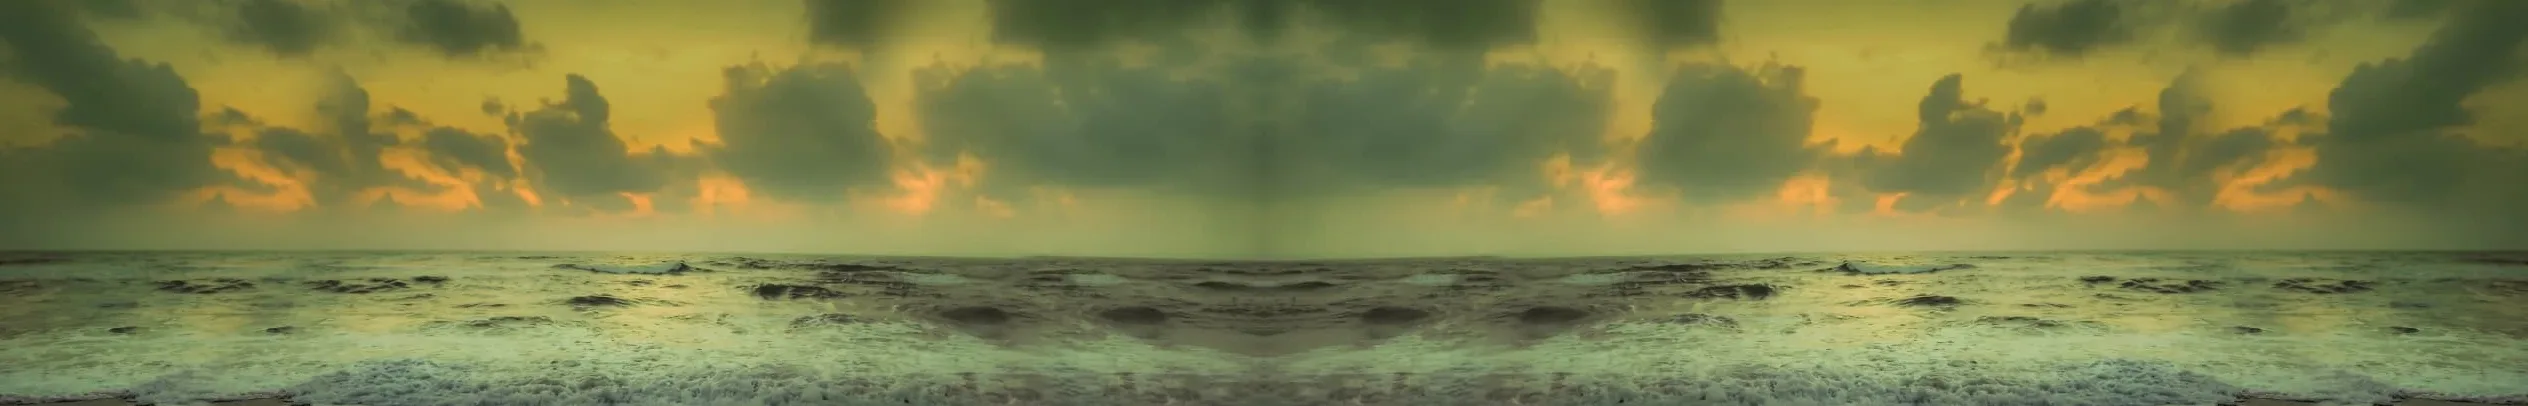
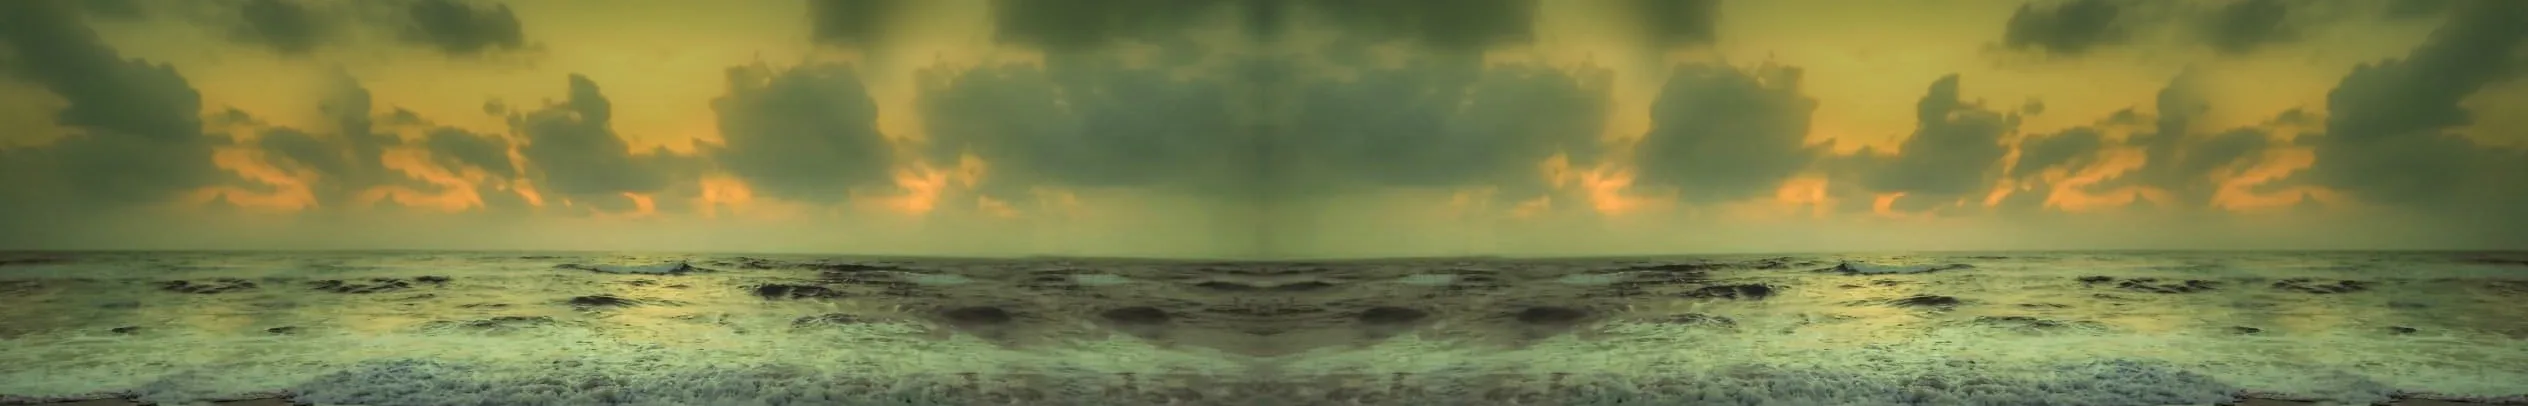
fix: smooth lightning, nothing in the scene moves between frames
The lit frames are the main picture relit with the broad light of the other three, and the layers crossfade with eased ramps instead of hard cuts.

diff --git a/app/globals.css b/app/globals.css
@@ -283,15 +283,15 @@
     @keyframes glyph-bob { 0%, 100% { translate: 0 1px; rotate: -3deg; } 50% { translate: 0 -2px; rotate: 3deg; } }
     .glyph-lamp { animation: glyph-lamp 1.8s steps(1, end) infinite; }
     @keyframes glyph-lamp { 0%, 100% { opacity: 0.25; } 70% { opacity: 1; } 85% { opacity: 0.25; } }
-    /* lightning: three frames of the shot flicker over the main one. A strike is a dark dip (frame 1), then the
-       sea lit twice (frames 2 and 3) with a short tail, about 0.6s in all; a weaker second strike comes half way
-       through the 14s cycle. */
-    .hero-flash-1 { animation: hero-flash-1 14s linear infinite 1.5s; }
-    .hero-flash-2 { animation: hero-flash-2 14s linear infinite 1.5s; }
-    .hero-flash-3 { animation: hero-flash-3 14s linear infinite 1.5s; }
-    @keyframes hero-flash-1 { 0%, 100% { opacity: 0; } 0.2% { opacity: 0; } 0.3% { opacity: 1; } 0.7% { opacity: 1; } 0.75% { opacity: 0; } 50.1% { opacity: 0; } 50.2% { opacity: 1; } 50.55% { opacity: 1; } 50.6% { opacity: 0; } }
-    @keyframes hero-flash-2 { 0%, 100% { opacity: 0; } 0.7% { opacity: 0; } 0.75% { opacity: 1; } 1.25% { opacity: 1; } 1.3% { opacity: 0; } 50.6% { opacity: 0; } 50.65% { opacity: 0.8; } 51.05% { opacity: 0.8; } 51.1% { opacity: 0; } }
-    @keyframes hero-flash-3 { 0%, 100% { opacity: 0; } 1.6% { opacity: 0; } 1.65% { opacity: 1; } 2.4% { opacity: 1; } 4.2% { opacity: 0; } 51.35% { opacity: 0; } 51.4% { opacity: 0.7; } 52% { opacity: 0.7; } 52.9% { opacity: 0; } }
+    /* lightning: the three lit frames are the main picture relit, so nothing in the scene moves between them; the
+       layers crossfade with short eased ramps (no hard cuts). A strike is a dark dip, then two lit pulses with a
+       tail, about 0.8s in all; a weaker second strike comes half way through the 14s cycle. */
+    .hero-flash-1 { animation: hero-flash-1 14s ease-in-out infinite 1.5s; }
+    .hero-flash-2 { animation: hero-flash-2 14s ease-in-out infinite 1.5s; }
+    .hero-flash-3 { animation: hero-flash-3 14s ease-in-out infinite 1.5s; }
+    @keyframes hero-flash-1 { 0%, 100% { opacity: 0; } 0.3% { opacity: 0; } 0.8% { opacity: 1; } 1.3% { opacity: 0; } 50% { opacity: 0; } 50.5% { opacity: 0.8; } 51% { opacity: 0; } }
+    @keyframes hero-flash-2 { 0%, 100% { opacity: 0; } 1.2% { opacity: 0; } 1.7% { opacity: 1; } 2.3% { opacity: 0.3; } 2.9% { opacity: 0; } 50.9% { opacity: 0; } 51.4% { opacity: 0.7; } 52.2% { opacity: 0; } }
+    @keyframes hero-flash-3 { 0%, 100% { opacity: 0; } 2.5% { opacity: 0; } 3% { opacity: 1; } 3.8% { opacity: 1; } 5.7% { opacity: 0; } 52% { opacity: 0; } 52.5% { opacity: 0.6; } 53.2% { opacity: 0.6; } 54.5% { opacity: 0; } }
     .hero-node { animation: enter var(--t-reveal) var(--ease) both; animation-delay: 700ms; }
 
     /* blink: one soft blink every 3.5 seconds; the lids ease shut over 200ms, rest about 60ms, then ease open over 300ms */

diff --git a/README.md b/README.md
@@ -16,7 +16,7 @@ npm run typecheck
 
 Everything editable lives in `data/content.ts`: name, tagline, region, email, social links, the resume path (`site.resume`, a PDF in `public/`), bio lines, the Design / Cloud columns, projects (with their detail-page copy and architecture components), stack groups, the experience log, certifications and footer text. The content was filled from the GitHub profile README, the CloudExpire, Acedra and Self-Healing repositories, and the resume.
 
-- Hero banner: `site.banner` is the photo band at the top (`public/hero-sea-strip.webp`, the frame followed by its mirror so it repeats sideways with no join); it pans steadily to the right as a repeating background. `site.bannerFlash` holds three more strips of the same shot (`hero-sea-strip-f1/2/3.webp`: a dark dip, then two with the sea lit), registered to the pixel and stacked over it; the `hero-flash-*` keyframes flicker them to make the lightning. The tagline over it is `site.heroScript` (calligraphy, Pinyon Script) above `site.heroCaps` (rust caps). `HeroGlyphs` draws small inked elements over the photo, a sun, gulls and a buoy lamp, each on its own CSS loop, with the lightning frames flickering every fourteen seconds; all of it is still under `prefers-reduced-motion`.
+- Hero banner: `site.banner` is the photo band at the top (`public/hero-sea-strip.webp`, the frame followed by its mirror so it repeats sideways with no join); it pans steadily to the right as a repeating background. `site.bannerFlash` holds three more strips (`hero-sea-strip-f1/2/3.webp`): the main picture relit with the broad light of the other three frames (a dark dip, then two lit), so nothing in the scene moves between them; the `hero-flash-*` keyframes flicker them to make the lightning. The tagline over it is `site.heroScript` (calligraphy, Pinyon Script) above `site.heroCaps` (rust caps). `HeroGlyphs` draws small inked elements over the photo, a sun, gulls and a buoy lamp, each on its own CSS loop, with the lightning frames flickering every fourteen seconds; all of it is still under `prefers-reduced-motion`.
 - Avatar: `site.photo` is the ink sketch with a transparent background in `public/avatar-figure.webp`. The figure is black ink on its own paper silhouette, so it never changes; the disc outside it is `--avatar-bg`, which follows the page background in both themes. `site.photoClosed` is the same sketch with the eyes shut (`public/avatar-figure-closed.webp`, only the eye band differs); it sits on top and the `blink` keyframes flash it for a few frames every five seconds. The dimension label beside the avatar is a live HH:MM clock in `site.timeZone` (`DimClock`).
 - Project images live in `public/work/`: `thumbnail` is the card on the home page, the optional `banner` is the wide image at the top of the project page, and `architecture.image` is the diagram. Keep `width` and `height` accurate so there is no layout shift. The project copy, facts, features, stack and API tables are taken from each repository's README on GitHub.
 - Designer poster (bottom of the page): headline, labels, the profile cut-out and the ring of posters are in `designerPoster` in `data/content.ts`; replace any ring entry's `src` with a file in `public/design/`. The ring is a Three.js carousel (`components/PosterRing3D.tsx`, loaded on the client only): curved two-row cards with a custom shader for directional blur, glitch, chromatic shift and edge shading, a depth-only occluder for the head, hover slow-down and drag scrubbing.
